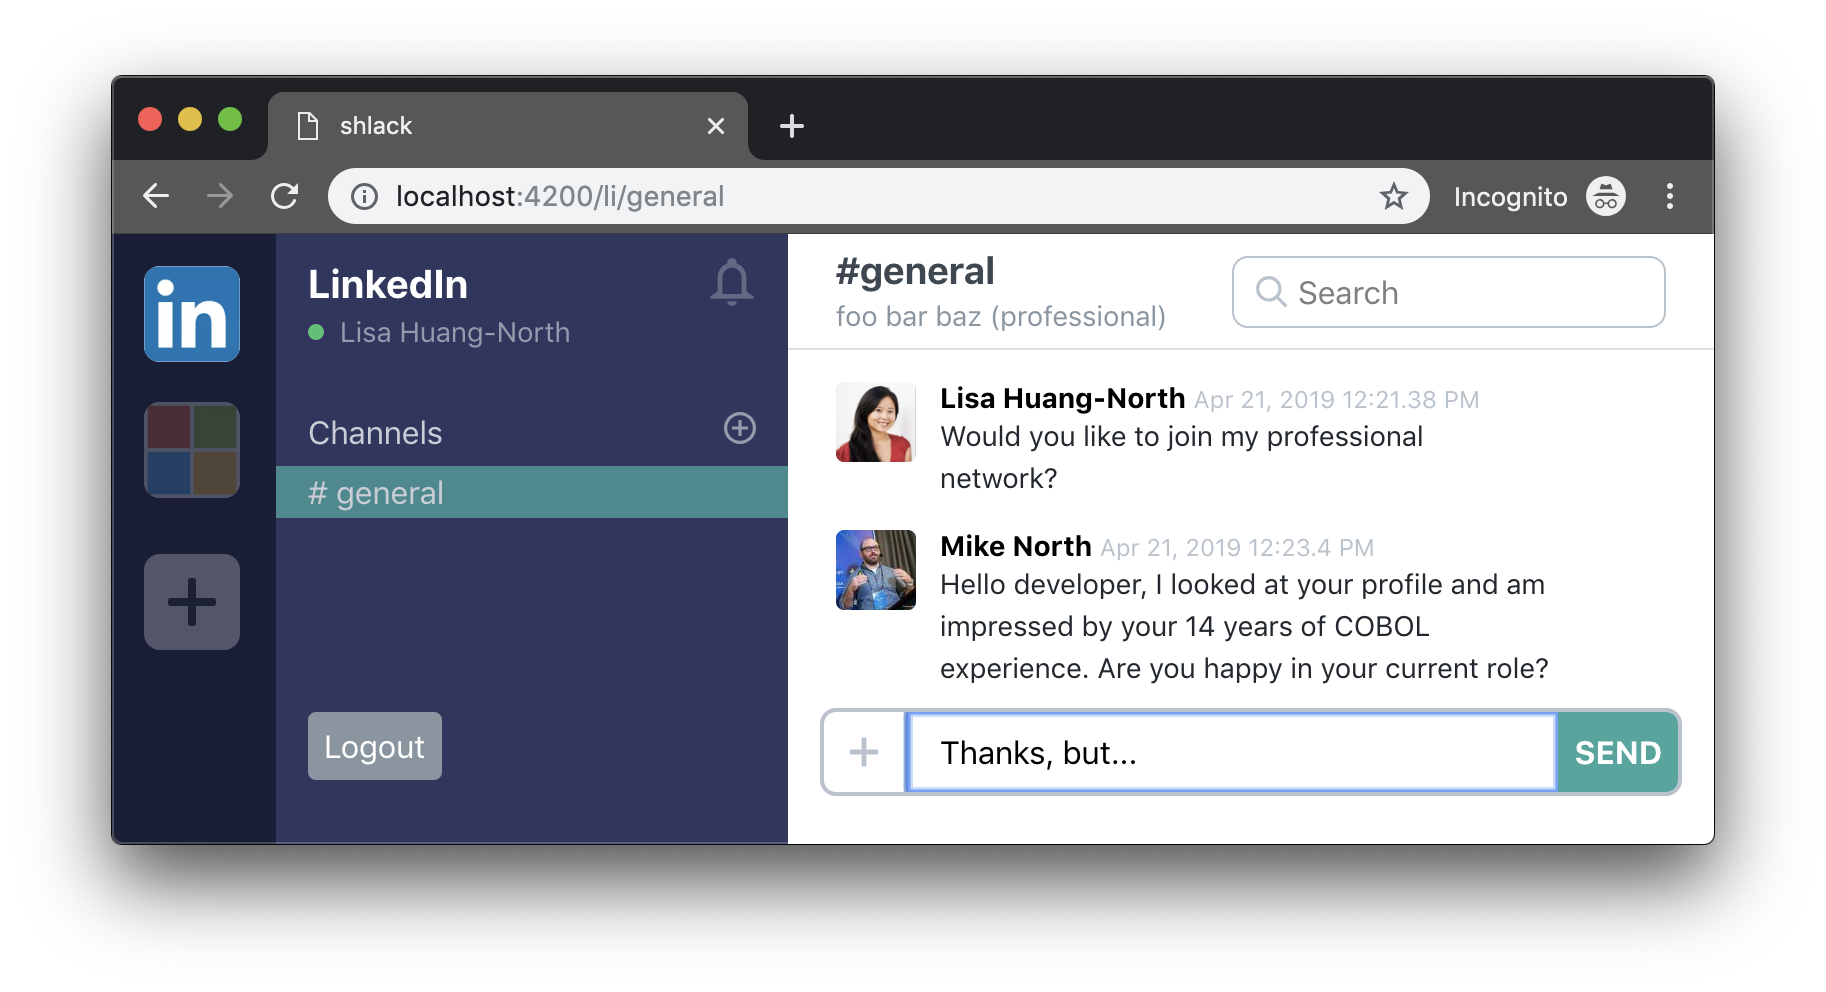
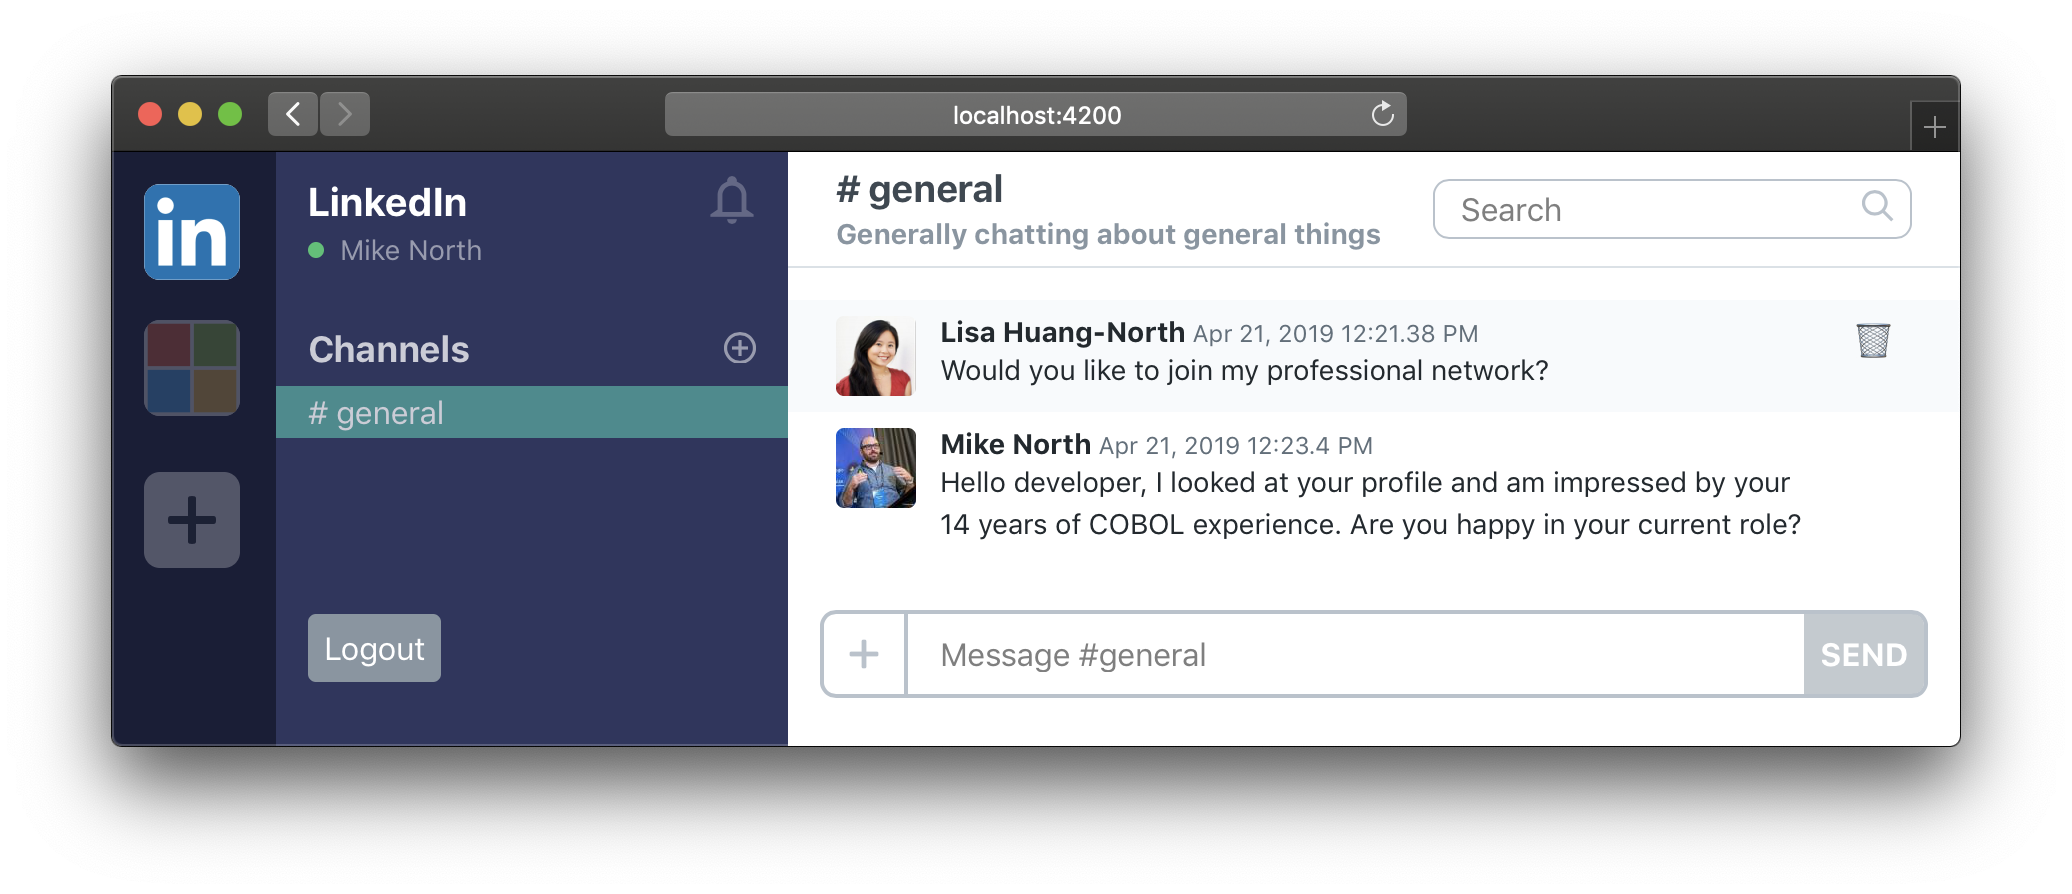
update notes for steps 1 and 2

Changed region(s): [[0.0312, 0.0604, 0.9677, 0.8758]]

diff --git a/notes/02-template-only-components.md b/notes/02-template-only-components.md
@@ -22,7 +22,7 @@ Move various parts of [`app/templates/application.hbs`](../app/templates/applica
    - Replace what you deleted from [`application.hbs`](../app/templates/application.hbs) with `<ChannelFooter />`
 1. Create [`app/templates/components/chat-message.hbs`](../app/templates/components/chat-message.hbs)
    - Move one of the `<div class="message">...</div>` into it
-      - NOTE: the starting point HTML has more than one of these. Pick one to use for the component, and for now we'll just repeat it several times 
+     - NOTE: the starting point HTML has more than one of these. Pick one to use for the component, and for now we'll just repeat it several times
    - Replace what you deleted from [`application.hbs`](../app/templates/application.hbs) with 2 `<ChannelMessage />`s
 
 At the end of this, your [`app/templates/application.hbs`](../app/templates/application.hbs) should look like
@@ -43,5 +43,7 @@ At the end of this, your [`app/templates/application.hbs`](../app/templates/appl
 ```
 
 and you should see no change to the rendered HTML at http://localhost:4200.
+
+![done](./img/app.png)
 
 Congrats! You've just broken down all of that HTML into components!

diff --git a/notes/01-templates.md b/notes/01-templates.md
@@ -110,7 +110,7 @@ For now, paste the following HTML in [`app/templates/application.hbs`](../app/te
       </h3>
 
       <h4 class="text-grey-dark text-sm truncate channel-header__description">
-        Just some general people generally chatting about general things
+        Generally chatting about general things
       </h4>
     </div>
 
